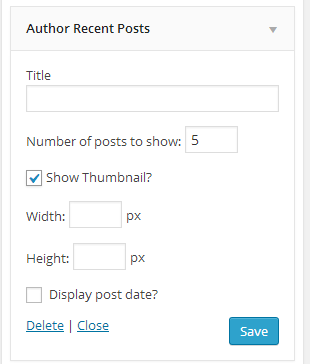
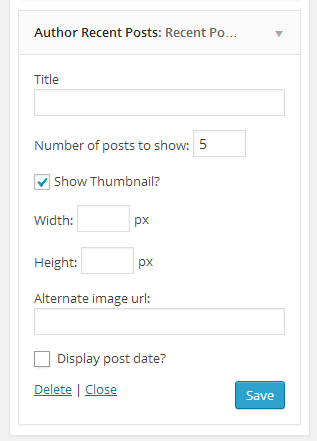
Update plugin to version 1.1
git-svn-id: https://plugins.svn.wordpress.org/author-recent-posts/trunk@901097 b8457f37-d9ea-0310-8a92-e5e31aec5664

diff --git a/author_recent_posts.php b/author_recent_posts.php
@@ -3,7 +3,7 @@
 Plugin Name: Author Recent Posts
 Plugin URI: http://dev.fellowtuts.com/author-recent-posts-plugin/
 Description: Author Recent Posts plugin shows recent posts by an author on his/her posts as a responsive sidebar widget
-Version: 1.0
+Version: 1.1
 Author: Amit Sonkhiya, Kamal Agrawal
 Author URI: http://dev.fellowtuts.com
 License: GPLv2 or later
@@ -17,7 +17,7 @@ License: GPLv2 or later
 		parent::__construct(
 		'author_recent_posts', // Base ID
 			'Author Recent Posts', // Name
-			array( 'description' => __( 'Display recent posts by an author on his/her posts as a responsive sidebar widget', 'text_domain' ), ) // Args
+			array( 'description' => __( 'Display recent posts by an author on his/her posts as a responsive sidebar widget', 'text_domain' ) ) // Args
 		);
 	}
 	
@@ -31,6 +31,7 @@ License: GPLv2 or later
 	$showthumbnail = isset( $instance['showthumbnail'] ) ? (bool) $instance['showthumbnail'] : false;
 	$width = isset( $instance['width'] ) ?  esc_attr($instance['width']) : '';
 	$height = isset( $instance['height'] ) ? esc_attr( $instance['height']) : '';
+	$alternateImg = isset( $instance['alternateImg'] ) ? esc_attr( $instance['alternateImg']) : '';
 	
 		?>
 	<p>
@@ -57,6 +58,12 @@ License: GPLv2 or later
 		<label for="<?php echo $this->get_field_id( 'height' ); ?>"><?php _e( 'Height: ' ); ?></label> 
 		<input  size="3"  id="<?php echo $this->get_field_id( 'height' ); ?>" name="<?php echo $this->get_field_name( 'height' ); ?>" type="text" value="<?php echo $height; ?>" /> px
 		</p>
+        
+          <p>
+	<label for="<?php echo $this->get_field_id('alternateImg'); ?>"><?php _e('Alternate image url:', 'wp_widget_plugin'); ?></label>
+	<input class="widefat"  id="<?php echo $this->get_field_id('alternateImg'); ?>" name="<?php echo $this->get_field_name('alternateImg'); ?>" type="text"   value="<?php echo $alternateImg; ?>" />
+	</p>
+        
         </div>
     
     <p><input class="checkbox" type="checkbox" <?php checked( $show_date ); ?> id="<?php echo $this->get_field_id( 'show_date' ); ?>" name="<?php echo $this->get_field_name( 'show_date' ); ?>" />
@@ -74,6 +81,7 @@ License: GPLv2 or later
 		$old_instance['showthumbnail'] = isset( $new_instance['showthumbnail'] ) ? (bool) $new_instance['showthumbnail'] : false;
 		$old_instance['width'] = isset($new_instance['width'])?$new_instance['width']:'';
 		$old_instance['height'] = isset($new_instance['height'])?$new_instance['height']:'';
+		$old_instance['alternateImg'] = isset($new_instance['alternateImg'])?$new_instance['alternateImg']:'';
 		$old_instance['show_date'] = isset( $new_instance['show_date'] ) ? (bool) $new_instance['show_date'] : false;
 		
 		return $old_instance ;
@@ -92,7 +100,7 @@ License: GPLv2 or later
 		$showthumbnail = isset( $instance['showthumbnail'] ) ? $instance['showthumbnail'] : false;
 		$width_image = empty($instance['width']) ? '50' : apply_filters('widget_image_width', $instance['width']);
         $height_image = empty($instance['height']) ? '50' : apply_filters('widget_image_height', $instance['height']);
-		
+		$alternateImg = !empty($instance['alternateImg']) ? $instance['alternateImg']:'';
 		$show_date = isset( $instance['show_date'] ) ? $instance['show_date'] : false;
 		
 	
@@ -117,15 +125,20 @@ License: GPLv2 or later
             <?php if($showthumbnail) : ?>
             <div class="author_left" style="width:<?php echo $width_image; ?>px;height:<?php echo $height_image; ?>px;">           
             <?php
-			if( $showthumbnail && has_post_thumbnail( $authors_post->ID )){
-				
+			if( $showthumbnail ){
+				if( has_post_thumbnail( $authors_post->ID )){
 				?>
                  <a href="<?php echo get_permalink( $authors_post->ID ) ; ?>">
                 <?php
 				echo get_the_post_thumbnail($authors_post->ID, array($width_image,$height_image)); ?>
                 </a>
-			<?php }
-			 ?>
+			<?php }elseif($alternateImg != ''){?>
+				
+				<a href="<?php echo get_permalink( $authors_post->ID ) ; ?>">
+                <img src="<?php echo $alternateImg; ?>" width="<?php echo $width_image; ?>" height="<?php echo $height_image; ?>" />
+                </a>
+				
+			<?php } }?>
             
             </div>
             <?php endif; ?>
